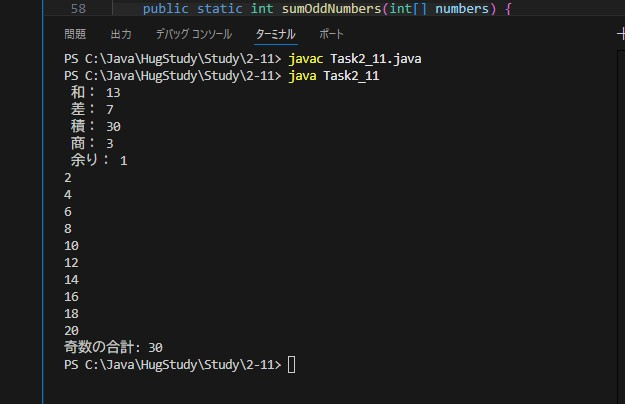
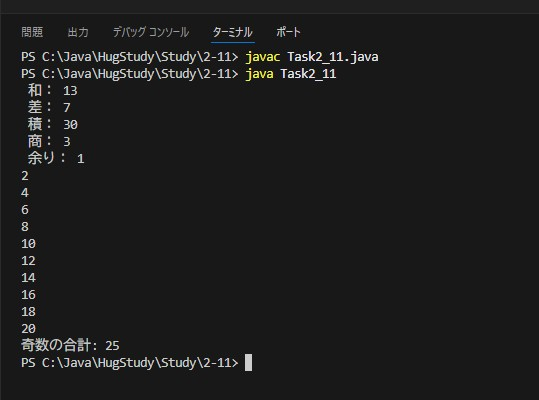
2-11修正

diff --git a/Study/2-11/Task2_11.java b/Study/2-11/Task2_11.java
@@ -61,7 +61,7 @@ public class Task2_11 {
     for (int i = 0; i < numbers.length; i++) {
 
     //問題③ 奇数かどうかの判定をするために、for文で取得したnumberを2で割り、余りが0にならないような条件文(if文)を記載して下さい。
-        if(i % 2 !=0){  
+        if((i+1) % 2 !=0){  
         add += numbers[i];
         }
     }
